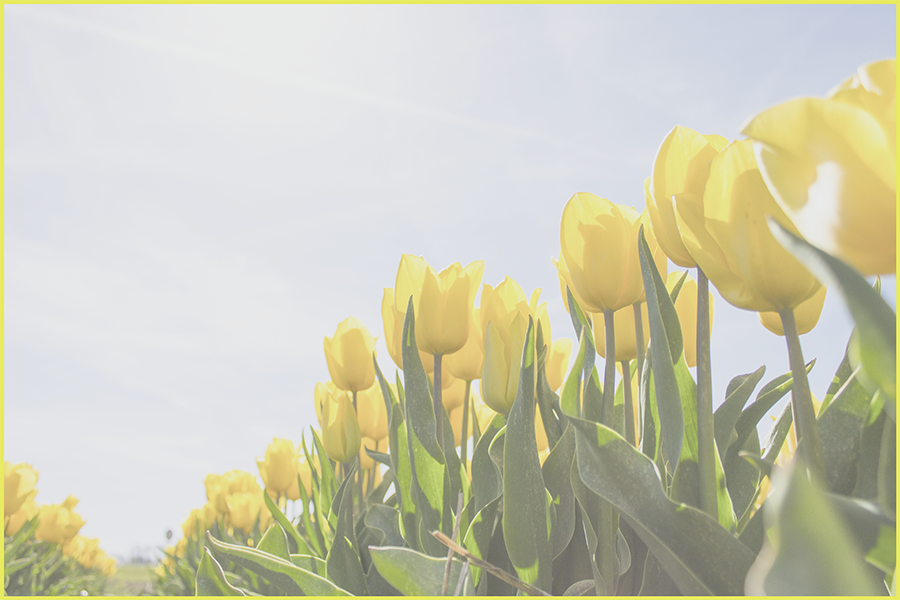
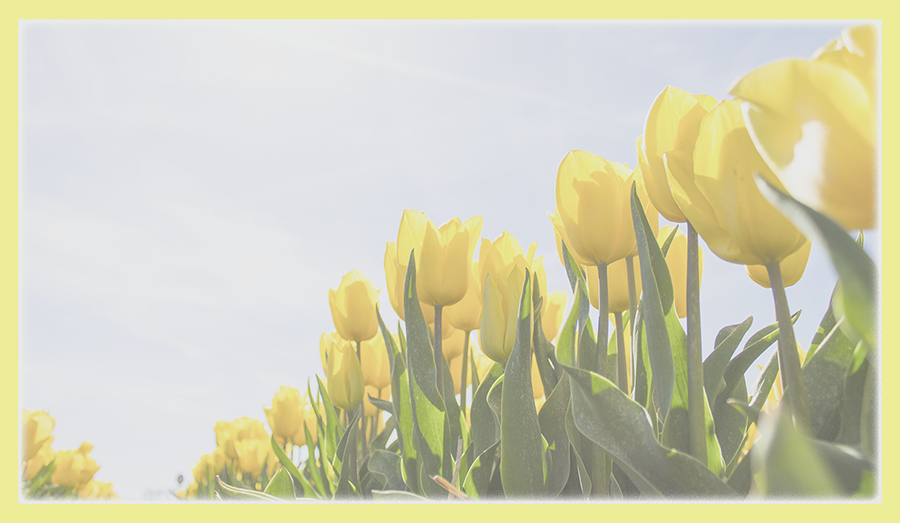
Fixed compatibility issues for mobile and cleaned up folders.

diff --git a/index.html b/index.html
@@ -16,7 +16,7 @@
 <nav class="nav">
 	<div class="container">
 		<div class="logo">
-			<img src="assets/images/logo1.png"/>
+			<img src="assets/images/logo.png"/>
 		</div>
 
 		<ul class="menu">
@@ -44,7 +44,7 @@
 <section class="work">
 	<div class="section-header">
 		<div class="icon">
-			<img src="assets/images/icon_work3.png"/>
+			<img src="assets/images/icon_work.png"/>
 		</div>
 		<div class="title">
 			Work
@@ -58,7 +58,7 @@
 			.. Thanks!
 		</p>
 		<ul>
-			<li class="image-container" id="image1"><a href="file:///C:/Users/stepa/Documents/GitHub/ekmous/index.html"><img src="assets/images/work11.png"/></a> </li>
+			<li class="image-container" id="image1"><a href="https://github.com/princessLeiaa/ekmous"><img src="assets/images/work1.png"/></a> </li>
 			<li class="image-container" id="image2"><a href="https://github.com/princessLeiaa/Personal-Info-Page"><img src="assets/images/work2.png"/></a> </li>
 		</ul>
 		
@@ -71,7 +71,7 @@
 <section class="play">
 	<div class="section-header">
 		<div class="icon">
-			<img src="assets/images/icon_work3.png"/>
+			<img src="assets/images/icon-play.png"/>
 		</div>
 		<div class="title">
 			Play
@@ -96,7 +96,7 @@
 <section class="about">
 	<div class="section-header">
 		<div class="icon">
-			<img src="assets/images/icon_work3.png"/>
+			<img src="assets/images/icon-about.png"/>
 		</div>
 		<div class="title">
 			About
@@ -118,7 +118,7 @@
 <section class="contact">
 	<div class="section-header">
 		<div class="icon">
-			<img src="assets/images/icon_work3.png"/>
+			<img src="assets/images/icon-contact.png"/>
 		</div>
 		<div class="title">
 			Contact
@@ -163,37 +163,29 @@
 		Copyright © 2018. All rights reserved 
 	</div>
 </footer>
-<!-- <script>
-	window.onscroll = function() {myFunction()};
-	
-	var header = document.getElementById("myNav");
-	var sticky = header.offsetTop;
-	
-	function myFunction() {
-	  if (window.pageYOffset > sticky) {
-		header.classList.add("sticky");
-	  } else {
-		header.classList.remove("sticky");
-	  }
-	}
-</script> -->
+
 <script>
-		// When the user scrolls down 20px from the top of the document, show the button
-		window.onscroll = function() {scrollFunction()};
+	// When the user scrolls down 20px from the top of the document, show the button
+	window.onscroll = function() {scrollFunction()};
 		
-		function scrollFunction() {
-		  if (document.body.scrollTop > 20 || document.documentElement.scrollTop > 20) {
-			document.getElementById("myBtn").style.display = "block";
-		  } else {
-			document.getElementById("myBtn").style.display = "none";
-		  }
+	function scrollFunction() {
+		if (document.body.scrollTop > 20 || document.documentElement.scrollTop > 20) {
+		document.getElementById("myBtn").style.display = "block";
+		} else {
+		document.getElementById("myBtn").style.display = "none";
 		}
-		
-		// When the user clicks on the button, scroll to the top of the document
-		function topFunction() {
-		  document.body.scrollTop = 0;
-		  document.documentElement.scrollTop = 0;
-		}
-		</script>
+	}
+	
+	// When the user clicks on the button, scroll to the top of the document
+	function topFunction() {
+		document.body.scrollTop = 0;
+		document.documentElement.scrollTop = 0;
+	}
+
+	
+</script>
+
+
+
 </body>
 </html>

diff --git a/assets/css/layout.css b/assets/css/layout.css
@@ -1,8 +1,14 @@
 body {
 	margin: 0px;
 	min-width:600px;
-}
+	position: absolute;
 
+}
+@media screen and (min-width: 1080px){
+	body{
+		width: 100%;
+	}
+}
 ul{
 	list-style:none;
 }
@@ -89,7 +95,7 @@ li>a{
 }
 
 header{
-	background-image:url('../images/bloom_tulip5.png');
+	background-image:url('../images/bloom_tulip.png');
 	background-repeat: no-repeat;
 	background-position: 50% 50%;
 	background-size: 100% 100%;
